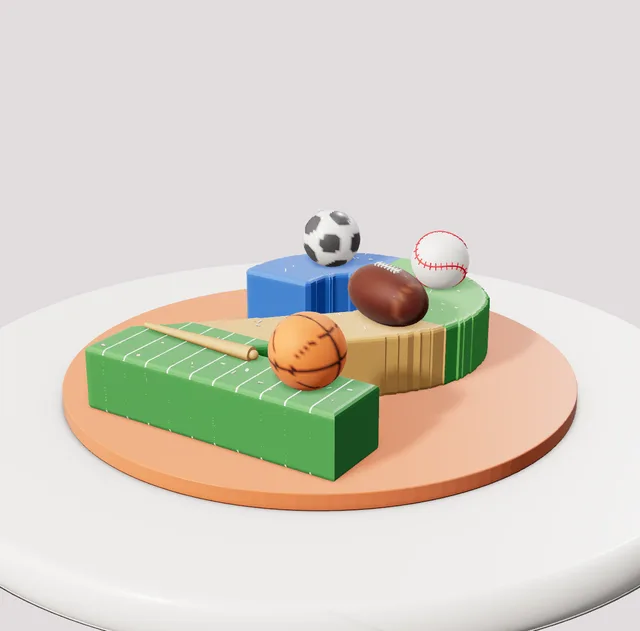
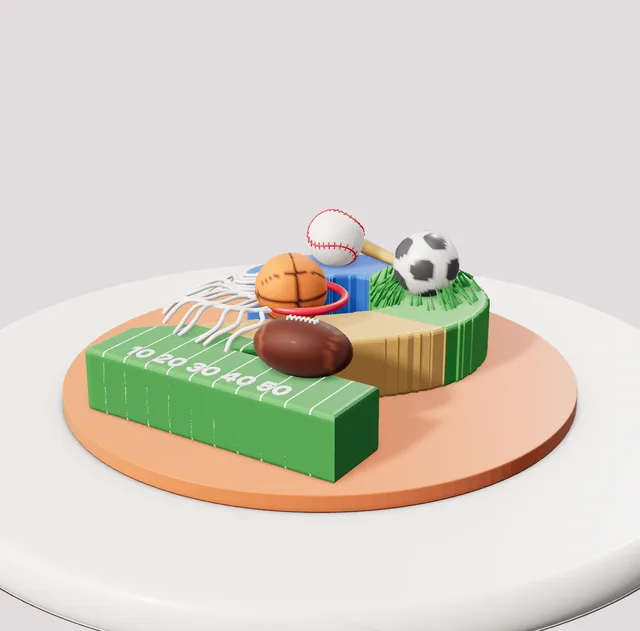
Sports 2: pieces placed in their zones, hoop rim with piped net, grass tuft, yard numbers (number decor can be pinned)
Claude-Session: https://claude.ai/code/session_016sN14hzH19WJ5zrp8o2QGp

diff --git a/studio.html b/studio.html
@@ -1612,6 +1612,18 @@ function ropeKnotParts(q,c){const g=[];const rope=(pts,r)=>{const cv=new T.Catmu
 DECOR.ropeknot={label:'Rope Knot And Ties',layouts:['band'],layout:'band',count:1,max:2,color:'#1d1b1f',colors:['#1d1b1f','#d4ae5a','#8a5a3a','#fbf7f1'],sp:2,roll:0,sink:0,embed:.08,make:ropeKnotParts};
 DECOR_ICONS.ropeknot=di('<circle cx="20" cy="12" r="5" fill="#1d1b1f"/><path d="M18 15q-4 10-6 18M22 15q3 8 4 14" stroke="#1d1b1f" stroke-width="3" fill="none"/>');
 {const c=DECOR_CATS.find(x=>x.key==='signature');c.items.push('ropeknot')}
+// ---- sports details: hoop rim with piped net, yard numbers, grass tuft ----
+function hoopNetParts(q,c){const rim=new T.TorusGeometry(.62,.06,10,40);rim.rotateX(PI/2);rim.translate(0,.08,0);const net=[];for(let k=0;k<16;k++){const a=-1.2+k/15*2.4+(q()-.5)*.15,pts=[];for(let s=0;s<=10;s++){const u=s/10,rr=.6+u*1.5,w=Math.sin(u*9+k)*.12;pts.push(new V3(-Math.cos(a)*rr+Math.sin(a)*w,.07-Math.pow(Math.max(0,u-.55),2)*1.6+Math.sin(u*14+k)*.02,Math.sin(a)*rr*.75+Math.cos(a)*w))}net.push(new T.TubeGeometry(new T.CatmullRomCurve3(pts),40,.035,6,false))}
+ return[[dmat(c,{r:.35,cc:.5}),rim],[dmat('#fbf7f1',{r:.45,cc:.3}),mg(net)]]}
+DECOR.hoopnet={label:'Hoop Rim And Piped Net',layouts:['cluster'],layout:'cluster',count:1,max:2,color:'#d62839',colors:['#d62839','#e8762c'],sp:.6,side:'up',sink:.05,tilt:[0,0],make:hoopNetParts};
+function yardNumParts(q,c,mode,dc){const txt=(dc&&dc.text)||'10 20 30 40 50';return[[dmat(c,{r:.4,cc:.3}),sgText(txt,.5,0,0,.04)]]}
+DECOR.yardnums={label:'Yard Line Numbers',layouts:['cluster'],layout:'cluster',count:1,max:1,color:'#fbf7f1',colors:['#fbf7f1','#f2c230'],sp:.3,side:'up',sink:.0,tilt:[0,0],spin:0,make:yardNumParts};
+function grassTuftParts(q,c){const g=[];for(let k=0;k<90;k++){const a=q()*2*PI,r0=.45+q()*.35,L=.18+q()*.2,cn=new T.ConeGeometry(.035,L,5);cn.translate(0,L/2,0);cn.rotateZ((q()*.6+.3));cn.rotateY(-a);cn.translate(Math.cos(a)*r0,0,Math.sin(a)*r0);g.push(cn)}return[[dmat(c,{r:.6}),mg(g)]]}
+DECOR.grasstuft={label:'Piped Grass Tuft',layouts:['cluster','scatter'],layout:'cluster',count:1,max:8,color:'#3f9a45',colors:['#3f9a45','#5cb04e'],sp:.6,side:'up',sink:.02,tilt:[0,0],make:grassTuftParts};
+DECOR_ICONS.hoopnet=di('<ellipse cx="20" cy="14" rx="10" ry="4" fill="none" stroke="#d62839" stroke-width="3"/><path d="M11 15l4 14M20 18v12M29 15l-4 14" stroke="#ccc" stroke-width="2"/>');
+DECOR_ICONS.yardnums=di('<rect x="3" y="12" width="34" height="16" fill="#3f9a45"/><text x="20" y="24" font-size="9" text-anchor="middle" fill="#fff" font-weight="900">10 20</text>');
+DECOR_ICONS.grasstuft=di('<path d="M8 30l4-12M14 30l2-14M20 30v-15M26 30l-2-14M32 30l-4-12" stroke="#3f9a45" stroke-width="3"/>');
+{const c=DECOR_CATS.find(x=>x.key==='signature');c.items.push('hoopnet','yardnums','grasstuft')}
 
 // ---------- Signature cakes: Sprinkle Me Silly's real cakes, rebuilt in the Studio ----------
 const SIG='Signature Cakes';
@@ -1658,8 +1670,8 @@ THEMES.unshift(
   newTier(8.6,6.6,{color:'#e6f1f7',finish:'fondant',ombre:true,ombreColor:'#5aaee8',top:'none',bottom:'none',decor:[DC('clouds','scatter',22,{color:'#fbf7f1',size:190}),DC('dragees','scatter',30,{color:'#fbf7f1',size:60}),DC('teddy','cluster',2,{color:'#f6efe6',size:380,where:'board',face:95}),DC('abcblocks','cluster',3,{size:260,where:'board',mix:['#fbf7f1']})]}),
   newTier(7.6,6.4,{color:'#e6f1f7',finish:'fondant',ombre:true,ombreColor:'#4aa6e6',top:'none',bottom:'none',decor:[DC('clouds','scatter',18,{color:'#fbf7f1',size:190}),DC('buttons','cascade',70,{color:'#b8913f',rot:-75,size:180,wide:1.4}),DC('ladder','band',1,{color:'#fbf7f1',rot:110,size:240})]}),
   newTier(6.4,5.8,{color:'#e6f1f7',finish:'fondant',ombre:true,ombreColor:'#3c9be0',top:'none',bottom:'none',decor:[DC('clouds','scatter',14,{color:'#fbf7f1',size:180}),DC('balloon','cluster',1,{color:'#7fb0e8',size:440,center:true,face:95})]})]}},
- {key:'sig_sports',name:'All-Star Sports Number',tag:SIG,blurb:'A number 2 cut into sports zones: a blue baseball corner, a green soccer field, a wood basketball court and a striped football field, with a baseball and bat, soccer ball, basketball and football on an orange board.',d:{cakeType:'number',number:{text:'2',height:13,layers:2,cake:'vanilla',cream:'#3f8f45',style:'frosted',zones:[[0,.42,0,.45,'#2f6fd0'],[0,.42,.45,1,'#4fa84a'],[.42,.74,0,1,'#d6a15a'],[.74,1,0,1,'#3f8f45',11]]},board:'white',boardTint:'#d4621a',numBoard:'round',topper:'none',tiers:[
-  newTier(8,4,{decor:[DC('baseball2','cluster',1,{size:260,seed:11}),DC('bat','cluster',1,{size:230,seed:23}),DC('soccerball','cluster',1,{size:260,seed:37}),DC('hoopball','cluster',1,{size:260,seed:5}),DC('football','cluster',1,{size:290,seed:67}),DC('sprinkles','cluster',120,{mix:['#fbf7f1']})]})]}},
+ {key:'sig_sports',name:'All-Star Sports Number',tag:SIG,blurb:'A number 2 cut into sports zones: a blue baseball corner with a baseball and bat, a green soccer field with piped grass, a wood basketball court with a hoop and piped net, and a football field with yard lines and numbers, on an orange board.',d:{cakeType:'number',number:{text:'2',height:13,layers:2,cake:'vanilla',cream:'#3f8f45',style:'frosted',zones:[[0,.42,0,.45,'#2f6fd0'],[0,.42,.45,1,'#4fa84a'],[.42,.74,0,1,'#d6a15a'],[.74,1,0,1,'#3f8f45',11]]},board:'white',boardTint:'#d4621a',numBoard:'round',topper:'none',tiers:[
+  newTier(8,4,{decor:[DC('grasstuft','cluster',1,{color:'#3f9a45',size:260,at:[.45,-.55]}),DC('soccerball','cluster',1,{size:280,at:[.45,-.55]}),DC('baseball2','cluster',1,{size:270,at:[-.5,-.72]}),DC('bat','cluster',1,{size:260,at:[-.05,-.86],yaw:-25}),DC('hoopnet','cluster',1,{color:'#d62839',size:230,at:[-.15,.12],yaw:20}),DC('hoopball','cluster',1,{size:270,at:[-.15,.12]}),DC('football','cluster',1,{size:270,at:[.5,.7],yaw:10}),DC('yardnums','cluster',1,{color:'#fbf7f1',size:120,at:[-.05,.93],yaw:0})]})]}},
  {key:'sig_blocks',name:'Building Block Number',tag:SIG,blurb:'A sunny yellow number 6 with a blue window, a mosaic wall of toy bricks around the side, rainbow sprinkles and bricks on top.',d:{cakeType:'number',number:{text:'6',height:13,layers:2,cake:'vanilla',cream:'#f6c919',style:'frosted',wall:['#e8475f','#2f6fd0','#f2c230','#5cc06c','#2f6fd0','#e8475f','#2a7a3a'],wallH:.95,holeFill:'#2f6fd0'},board:'white',boardTint:'#34405e',numBoard:'round',topper:'none',tiers:[
   newTier(8,4,{decor:[DC('bricks','cluster',18,{size:250,mix:['#e8475f','#2f6fd0','#5cc06c']}),DC('sprinkles','cluster',260,{mix:['#e8475f','#2f6fd0','#5cc06c','#f28a3a','#fbf7f1']})]})]}},
  {key:'sig_movie',name:'Movie Night Popcorn',tag:SIG,blurb:'A red and white striped popcorn tier overflowing with popcorn and a "13" Admit One ticket, over a black and white chevron clapperboard tier with stars.',d:{board:'gold',topper:'none',tiers:[
@@ -1767,10 +1779,10 @@ function buildNumber(D,add,setPart){const N=D.number||{},text=(N.text||'1').slic
  if(N.holeFill){const fm=dmat(N.holeFill,{r:.18,cc:1,ccr:.04,sh:.2});polys.forEach(pl=>pl.holes.forEach(h=>{const sh=new T.Shape(h.map(([x,z])=>new V2(x,-z)));const g=new T.ExtrudeGeometry(sh,{depth:.5,bevelEnabled:false,curveSegments:8});g.rotateX(-PI/2);g.translate(0,bh,0);setPart('number');add(fm,g)}))}
  totalH=y;boardR=Math.max(numSize.w,numSize.d)/2+1.6;return{inside,deep,top:y,pts,y0:bh}}
 function placeNumberDecor(dc,ctx,add){const def=DECOR[dc.type];if(!def||def.mane)return;const q=rng(dc.seed||7),S=(dc.size??100)/100,n=Math.max(1,Math.min(def.max,Math.round(dc.count||1))),c=dc.color||def.color,part='deco'+dc.id,W=numSize.w/2,Dd=numSize.d/2,placed=ctx.placed;
- const spot=(rr,tries=80)=>{for(let t=0;t<tries;t++){const x=(q()*2-1)*W,z=(q()*2-1)*Dd;if(!ctx.deep(x,z,rr*.6))continue;if(placed.some(([px,pz,pr])=>(px-x)**2+(pz-z)**2<(pr+rr)**2*.85))continue;placed.push([x,z,rr]);return[x,z]}return null};
+ const spot=(rr,tries=80)=>{if(dc.at){for(let t=0;t<80;t++){const j=t*.1,x=dc.at[0]*W+(q()-.5)*j,z=dc.at[1]*Dd+(q()-.5)*j;if(!ctx.inside(x,z))continue;placed.push([x,z,rr]);return[x,z]}}for(let t=0;t<tries;t++){const x=(q()*2-1)*W,z=(q()*2-1)*Dd;if(!ctx.deep(x,z,rr*.6))continue;if(placed.some(([px,pz,pr])=>(px-x)**2+(pz-z)**2<(pr+rr)**2*.85))continue;placed.push([x,z,rr]);return[x,z]}return null};
  for(let k=0;k<n;k++){if(def.random){const x=(q()*2-1)*W,z=(q()*2-1)*Dd;if(!ctx.inside(x,z))continue;const parts=def.make(q,c,'top',dc);seat(parts,0);const sp=q()*6.28,tl=(q()-.5)*1.2;xf(parts,g=>{g.rotateY(sp);g.rotateX(tl);g.scale(S,S,S);g.translate(x,ctx.top-.08+q()*.08,z)});for(const[m,g]of parts)add(m,g,part);continue}
   if(def.round){const rr=def.radius(q)*S,p=spot(rr);if(!p)continue;const g=new T.SphereGeometry(rr,18,12);g.translate(p[0],ctx.top+rr*.55,p[1]);add(def.mat(c),g,part);continue}
-  const rr=.5*S*(def.sp||1),p=spot(rr);if(!p)continue;const parts=def.make(q,c,'top',dc);seat(parts,(def.sink??.03)-.05);const sp=q()*6.28,tl=(q()-.5)*.35;xf(parts,g=>{g.rotateY(sp);g.rotateX(tl);g.scale(S,S,S);g.translate(p[0],ctx.top-.12,p[1])});for(const[m,g]of parts)add(m,g,part)}}
+  const rr=.5*S*(def.sp||1),p=spot(rr);if(!p)continue;const parts=def.make(q,c,'top',dc);seat(parts,(def.sink??.03)-.05);const sp=dc.yaw!=null?dc.yaw*PI/180:q()*6.28,tl=dc.yaw!=null?0:(q()-.5)*.35;xf(parts,g=>{g.rotateY(sp);g.rotateX(tl);g.scale(S,S,S);g.translate(p[0],ctx.top-.12,p[1])});for(const[m,g]of parts)add(m,g,part)}}
 
 // ---------------------------------------------------------------- Edible images (printed frosting sheets and wafer paper)
 // Photos are stored in this browser (one key per image) and the design keeps only the image id.

diff --git a/tools/signature-decor.js b/tools/signature-decor.js
@@ -280,6 +280,18 @@ function ropeKnotParts(q,c){const g=[];const rope=(pts,r)=>{const cv=new T.Catmu
 DECOR.ropeknot={label:'Rope Knot And Ties',layouts:['band'],layout:'band',count:1,max:2,color:'#1d1b1f',colors:['#1d1b1f','#d4ae5a','#8a5a3a','#fbf7f1'],sp:2,roll:0,sink:0,embed:.08,make:ropeKnotParts};
 DECOR_ICONS.ropeknot=di('<circle cx="20" cy="12" r="5" fill="#1d1b1f"/><path d="M18 15q-4 10-6 18M22 15q3 8 4 14" stroke="#1d1b1f" stroke-width="3" fill="none"/>');
 {const c=DECOR_CATS.find(x=>x.key==='signature');c.items.push('ropeknot')}
+// ---- sports details: hoop rim with piped net, yard numbers, grass tuft ----
+function hoopNetParts(q,c){const rim=new T.TorusGeometry(.62,.06,10,40);rim.rotateX(PI/2);rim.translate(0,.08,0);const net=[];for(let k=0;k<16;k++){const a=-1.2+k/15*2.4+(q()-.5)*.15,pts=[];for(let s=0;s<=10;s++){const u=s/10,rr=.6+u*1.5,w=Math.sin(u*9+k)*.12;pts.push(new V3(-Math.cos(a)*rr+Math.sin(a)*w,.07-Math.pow(Math.max(0,u-.55),2)*1.6+Math.sin(u*14+k)*.02,Math.sin(a)*rr*.75+Math.cos(a)*w))}net.push(new T.TubeGeometry(new T.CatmullRomCurve3(pts),40,.035,6,false))}
+ return[[dmat(c,{r:.35,cc:.5}),rim],[dmat('#fbf7f1',{r:.45,cc:.3}),mg(net)]]}
+DECOR.hoopnet={label:'Hoop Rim And Piped Net',layouts:['cluster'],layout:'cluster',count:1,max:2,color:'#d62839',colors:['#d62839','#e8762c'],sp:.6,side:'up',sink:.05,tilt:[0,0],make:hoopNetParts};
+function yardNumParts(q,c,mode,dc){const txt=(dc&&dc.text)||'10 20 30 40 50';return[[dmat(c,{r:.4,cc:.3}),sgText(txt,.5,0,0,.04)]]}
+DECOR.yardnums={label:'Yard Line Numbers',layouts:['cluster'],layout:'cluster',count:1,max:1,color:'#fbf7f1',colors:['#fbf7f1','#f2c230'],sp:.3,side:'up',sink:.0,tilt:[0,0],spin:0,make:yardNumParts};
+function grassTuftParts(q,c){const g=[];for(let k=0;k<90;k++){const a=q()*2*PI,r0=.45+q()*.35,L=.18+q()*.2,cn=new T.ConeGeometry(.035,L,5);cn.translate(0,L/2,0);cn.rotateZ((q()*.6+.3));cn.rotateY(-a);cn.translate(Math.cos(a)*r0,0,Math.sin(a)*r0);g.push(cn)}return[[dmat(c,{r:.6}),mg(g)]]}
+DECOR.grasstuft={label:'Piped Grass Tuft',layouts:['cluster','scatter'],layout:'cluster',count:1,max:8,color:'#3f9a45',colors:['#3f9a45','#5cb04e'],sp:.6,side:'up',sink:.02,tilt:[0,0],make:grassTuftParts};
+DECOR_ICONS.hoopnet=di('<ellipse cx="20" cy="14" rx="10" ry="4" fill="none" stroke="#d62839" stroke-width="3"/><path d="M11 15l4 14M20 18v12M29 15l-4 14" stroke="#ccc" stroke-width="2"/>');
+DECOR_ICONS.yardnums=di('<rect x="3" y="12" width="34" height="16" fill="#3f9a45"/><text x="20" y="24" font-size="9" text-anchor="middle" fill="#fff" font-weight="900">10 20</text>');
+DECOR_ICONS.grasstuft=di('<path d="M8 30l4-12M14 30l2-14M20 30v-15M26 30l-2-14M32 30l-4-12" stroke="#3f9a45" stroke-width="3"/>');
+{const c=DECOR_CATS.find(x=>x.key==='signature');c.items.push('hoopnet','yardnums','grasstuft')}
 
 // ---------- Signature cakes: Sprinkle Me Silly's real cakes, rebuilt in the Studio ----------
 const SIG='Signature Cakes';
@@ -326,8 +338,8 @@ THEMES.unshift(
   newTier(8.6,6.6,{color:'#e6f1f7',finish:'fondant',ombre:true,ombreColor:'#5aaee8',top:'none',bottom:'none',decor:[DC('clouds','scatter',22,{color:'#fbf7f1',size:190}),DC('dragees','scatter',30,{color:'#fbf7f1',size:60}),DC('teddy','cluster',2,{color:'#f6efe6',size:380,where:'board',face:95}),DC('abcblocks','cluster',3,{size:260,where:'board',mix:['#fbf7f1']})]}),
   newTier(7.6,6.4,{color:'#e6f1f7',finish:'fondant',ombre:true,ombreColor:'#4aa6e6',top:'none',bottom:'none',decor:[DC('clouds','scatter',18,{color:'#fbf7f1',size:190}),DC('buttons','cascade',70,{color:'#b8913f',rot:-75,size:180,wide:1.4}),DC('ladder','band',1,{color:'#fbf7f1',rot:110,size:240})]}),
   newTier(6.4,5.8,{color:'#e6f1f7',finish:'fondant',ombre:true,ombreColor:'#3c9be0',top:'none',bottom:'none',decor:[DC('clouds','scatter',14,{color:'#fbf7f1',size:180}),DC('balloon','cluster',1,{color:'#7fb0e8',size:440,center:true,face:95})]})]}},
- {key:'sig_sports',name:'All-Star Sports Number',tag:SIG,blurb:'A number 2 cut into sports zones: a blue baseball corner, a green soccer field, a wood basketball court and a striped football field, with a baseball and bat, soccer ball, basketball and football on an orange board.',d:{cakeType:'number',number:{text:'2',height:13,layers:2,cake:'vanilla',cream:'#3f8f45',style:'frosted',zones:[[0,.42,0,.45,'#2f6fd0'],[0,.42,.45,1,'#4fa84a'],[.42,.74,0,1,'#d6a15a'],[.74,1,0,1,'#3f8f45',11]]},board:'white',boardTint:'#d4621a',numBoard:'round',topper:'none',tiers:[
-  newTier(8,4,{decor:[DC('baseball2','cluster',1,{size:260,seed:11}),DC('bat','cluster',1,{size:230,seed:23}),DC('soccerball','cluster',1,{size:260,seed:37}),DC('hoopball','cluster',1,{size:260,seed:5}),DC('football','cluster',1,{size:290,seed:67}),DC('sprinkles','cluster',120,{mix:['#fbf7f1']})]})]}},
+ {key:'sig_sports',name:'All-Star Sports Number',tag:SIG,blurb:'A number 2 cut into sports zones: a blue baseball corner with a baseball and bat, a green soccer field with piped grass, a wood basketball court with a hoop and piped net, and a football field with yard lines and numbers, on an orange board.',d:{cakeType:'number',number:{text:'2',height:13,layers:2,cake:'vanilla',cream:'#3f8f45',style:'frosted',zones:[[0,.42,0,.45,'#2f6fd0'],[0,.42,.45,1,'#4fa84a'],[.42,.74,0,1,'#d6a15a'],[.74,1,0,1,'#3f8f45',11]]},board:'white',boardTint:'#d4621a',numBoard:'round',topper:'none',tiers:[
+  newTier(8,4,{decor:[DC('grasstuft','cluster',1,{color:'#3f9a45',size:260,at:[.45,-.55]}),DC('soccerball','cluster',1,{size:280,at:[.45,-.55]}),DC('baseball2','cluster',1,{size:270,at:[-.5,-.72]}),DC('bat','cluster',1,{size:260,at:[-.05,-.86],yaw:-25}),DC('hoopnet','cluster',1,{color:'#d62839',size:230,at:[-.15,.12],yaw:20}),DC('hoopball','cluster',1,{size:270,at:[-.15,.12]}),DC('football','cluster',1,{size:270,at:[.5,.7],yaw:10}),DC('yardnums','cluster',1,{color:'#fbf7f1',size:120,at:[-.05,.93],yaw:0})]})]}},
  {key:'sig_blocks',name:'Building Block Number',tag:SIG,blurb:'A sunny yellow number 6 with a blue window, a mosaic wall of toy bricks around the side, rainbow sprinkles and bricks on top.',d:{cakeType:'number',number:{text:'6',height:13,layers:2,cake:'vanilla',cream:'#f6c919',style:'frosted',wall:['#e8475f','#2f6fd0','#f2c230','#5cc06c','#2f6fd0','#e8475f','#2a7a3a'],wallH:.95,holeFill:'#2f6fd0'},board:'white',boardTint:'#34405e',numBoard:'round',topper:'none',tiers:[
   newTier(8,4,{decor:[DC('bricks','cluster',18,{size:250,mix:['#e8475f','#2f6fd0','#5cc06c']}),DC('sprinkles','cluster',260,{mix:['#e8475f','#2f6fd0','#5cc06c','#f28a3a','#fbf7f1']})]})]}},
  {key:'sig_movie',name:'Movie Night Popcorn',tag:SIG,blurb:'A red and white striped popcorn tier overflowing with popcorn and a "13" Admit One ticket, over a black and white chevron clapperboard tier with stars.',d:{board:'gold',topper:'none',tiers:[

diff --git a/tools/sig-themes.js b/tools/sig-themes.js
@@ -43,8 +43,8 @@ THEMES.unshift(
   newTier(8.6,6.6,{color:'#e6f1f7',finish:'fondant',ombre:true,ombreColor:'#5aaee8',top:'none',bottom:'none',decor:[DC('clouds','scatter',22,{color:'#fbf7f1',size:190}),DC('dragees','scatter',30,{color:'#fbf7f1',size:60}),DC('teddy','cluster',2,{color:'#f6efe6',size:380,where:'board',face:95}),DC('abcblocks','cluster',3,{size:260,where:'board',mix:['#fbf7f1']})]}),
   newTier(7.6,6.4,{color:'#e6f1f7',finish:'fondant',ombre:true,ombreColor:'#4aa6e6',top:'none',bottom:'none',decor:[DC('clouds','scatter',18,{color:'#fbf7f1',size:190}),DC('buttons','cascade',70,{color:'#b8913f',rot:-75,size:180,wide:1.4}),DC('ladder','band',1,{color:'#fbf7f1',rot:110,size:240})]}),
   newTier(6.4,5.8,{color:'#e6f1f7',finish:'fondant',ombre:true,ombreColor:'#3c9be0',top:'none',bottom:'none',decor:[DC('clouds','scatter',14,{color:'#fbf7f1',size:180}),DC('balloon','cluster',1,{color:'#7fb0e8',size:440,center:true,face:95})]})]}},
- {key:'sig_sports',name:'All-Star Sports Number',tag:SIG,blurb:'A number 2 cut into sports zones: a blue baseball corner, a green soccer field, a wood basketball court and a striped football field, with a baseball and bat, soccer ball, basketball and football on an orange board.',d:{cakeType:'number',number:{text:'2',height:13,layers:2,cake:'vanilla',cream:'#3f8f45',style:'frosted',zones:[[0,.42,0,.45,'#2f6fd0'],[0,.42,.45,1,'#4fa84a'],[.42,.74,0,1,'#d6a15a'],[.74,1,0,1,'#3f8f45',11]]},board:'white',boardTint:'#d4621a',numBoard:'round',topper:'none',tiers:[
-  newTier(8,4,{decor:[DC('baseball2','cluster',1,{size:260,seed:11}),DC('bat','cluster',1,{size:230,seed:23}),DC('soccerball','cluster',1,{size:260,seed:37}),DC('hoopball','cluster',1,{size:260,seed:5}),DC('football','cluster',1,{size:290,seed:67}),DC('sprinkles','cluster',120,{mix:['#fbf7f1']})]})]}},
+ {key:'sig_sports',name:'All-Star Sports Number',tag:SIG,blurb:'A number 2 cut into sports zones: a blue baseball corner with a baseball and bat, a green soccer field with piped grass, a wood basketball court with a hoop and piped net, and a football field with yard lines and numbers, on an orange board.',d:{cakeType:'number',number:{text:'2',height:13,layers:2,cake:'vanilla',cream:'#3f8f45',style:'frosted',zones:[[0,.42,0,.45,'#2f6fd0'],[0,.42,.45,1,'#4fa84a'],[.42,.74,0,1,'#d6a15a'],[.74,1,0,1,'#3f8f45',11]]},board:'white',boardTint:'#d4621a',numBoard:'round',topper:'none',tiers:[
+  newTier(8,4,{decor:[DC('grasstuft','cluster',1,{color:'#3f9a45',size:260,at:[.45,-.55]}),DC('soccerball','cluster',1,{size:280,at:[.45,-.55]}),DC('baseball2','cluster',1,{size:270,at:[-.5,-.72]}),DC('bat','cluster',1,{size:260,at:[-.05,-.86],yaw:-25}),DC('hoopnet','cluster',1,{color:'#d62839',size:230,at:[-.15,.12],yaw:20}),DC('hoopball','cluster',1,{size:270,at:[-.15,.12]}),DC('football','cluster',1,{size:270,at:[.5,.7],yaw:10}),DC('yardnums','cluster',1,{color:'#fbf7f1',size:120,at:[-.05,.93],yaw:0})]})]}},
  {key:'sig_blocks',name:'Building Block Number',tag:SIG,blurb:'A sunny yellow number 6 with a blue window, a mosaic wall of toy bricks around the side, rainbow sprinkles and bricks on top.',d:{cakeType:'number',number:{text:'6',height:13,layers:2,cake:'vanilla',cream:'#f6c919',style:'frosted',wall:['#e8475f','#2f6fd0','#f2c230','#5cc06c','#2f6fd0','#e8475f','#2a7a3a'],wallH:.95,holeFill:'#2f6fd0'},board:'white',boardTint:'#34405e',numBoard:'round',topper:'none',tiers:[
   newTier(8,4,{decor:[DC('bricks','cluster',18,{size:250,mix:['#e8475f','#2f6fd0','#5cc06c']}),DC('sprinkles','cluster',260,{mix:['#e8475f','#2f6fd0','#5cc06c','#f28a3a','#fbf7f1']})]})]}},
  {key:'sig_movie',name:'Movie Night Popcorn',tag:SIG,blurb:'A red and white striped popcorn tier overflowing with popcorn and a "13" Admit One ticket, over a black and white chevron clapperboard tier with stars.',d:{board:'gold',topper:'none',tiers:[

diff --git a/tools/sig-extra.js b/tools/sig-extra.js
@@ -105,3 +105,15 @@ function ropeKnotParts(q,c){const g=[];const rope=(pts,r)=>{const cv=new T.Catmu
 DECOR.ropeknot={label:'Rope Knot And Ties',layouts:['band'],layout:'band',count:1,max:2,color:'#1d1b1f',colors:['#1d1b1f','#d4ae5a','#8a5a3a','#fbf7f1'],sp:2,roll:0,sink:0,embed:.08,make:ropeKnotParts};
 DECOR_ICONS.ropeknot=di('<circle cx="20" cy="12" r="5" fill="#1d1b1f"/><path d="M18 15q-4 10-6 18M22 15q3 8 4 14" stroke="#1d1b1f" stroke-width="3" fill="none"/>');
 {const c=DECOR_CATS.find(x=>x.key==='signature');c.items.push('ropeknot')}
+// ---- sports details: hoop rim with piped net, yard numbers, grass tuft ----
+function hoopNetParts(q,c){const rim=new T.TorusGeometry(.62,.06,10,40);rim.rotateX(PI/2);rim.translate(0,.08,0);const net=[];for(let k=0;k<16;k++){const a=-1.2+k/15*2.4+(q()-.5)*.15,pts=[];for(let s=0;s<=10;s++){const u=s/10,rr=.6+u*1.5,w=Math.sin(u*9+k)*.12;pts.push(new V3(-Math.cos(a)*rr+Math.sin(a)*w,.07-Math.pow(Math.max(0,u-.55),2)*1.6+Math.sin(u*14+k)*.02,Math.sin(a)*rr*.75+Math.cos(a)*w))}net.push(new T.TubeGeometry(new T.CatmullRomCurve3(pts),40,.035,6,false))}
+ return[[dmat(c,{r:.35,cc:.5}),rim],[dmat('#fbf7f1',{r:.45,cc:.3}),mg(net)]]}
+DECOR.hoopnet={label:'Hoop Rim And Piped Net',layouts:['cluster'],layout:'cluster',count:1,max:2,color:'#d62839',colors:['#d62839','#e8762c'],sp:.6,side:'up',sink:.05,tilt:[0,0],make:hoopNetParts};
+function yardNumParts(q,c,mode,dc){const txt=(dc&&dc.text)||'10 20 30 40 50';return[[dmat(c,{r:.4,cc:.3}),sgText(txt,.5,0,0,.04)]]}
+DECOR.yardnums={label:'Yard Line Numbers',layouts:['cluster'],layout:'cluster',count:1,max:1,color:'#fbf7f1',colors:['#fbf7f1','#f2c230'],sp:.3,side:'up',sink:.0,tilt:[0,0],spin:0,make:yardNumParts};
+function grassTuftParts(q,c){const g=[];for(let k=0;k<90;k++){const a=q()*2*PI,r0=.45+q()*.35,L=.18+q()*.2,cn=new T.ConeGeometry(.035,L,5);cn.translate(0,L/2,0);cn.rotateZ((q()*.6+.3));cn.rotateY(-a);cn.translate(Math.cos(a)*r0,0,Math.sin(a)*r0);g.push(cn)}return[[dmat(c,{r:.6}),mg(g)]]}
+DECOR.grasstuft={label:'Piped Grass Tuft',layouts:['cluster','scatter'],layout:'cluster',count:1,max:8,color:'#3f9a45',colors:['#3f9a45','#5cb04e'],sp:.6,side:'up',sink:.02,tilt:[0,0],make:grassTuftParts};
+DECOR_ICONS.hoopnet=di('<ellipse cx="20" cy="14" rx="10" ry="4" fill="none" stroke="#d62839" stroke-width="3"/><path d="M11 15l4 14M20 18v12M29 15l-4 14" stroke="#ccc" stroke-width="2"/>');
+DECOR_ICONS.yardnums=di('<rect x="3" y="12" width="34" height="16" fill="#3f9a45"/><text x="20" y="24" font-size="9" text-anchor="middle" fill="#fff" font-weight="900">10 20</text>');
+DECOR_ICONS.grasstuft=di('<path d="M8 30l4-12M14 30l2-14M20 30v-15M26 30l-2-14M32 30l-4-12" stroke="#3f9a45" stroke-width="3"/>');
+{const c=DECOR_CATS.find(x=>x.key==='signature');c.items.push('hoopnet','yardnums','grasstuft')}
